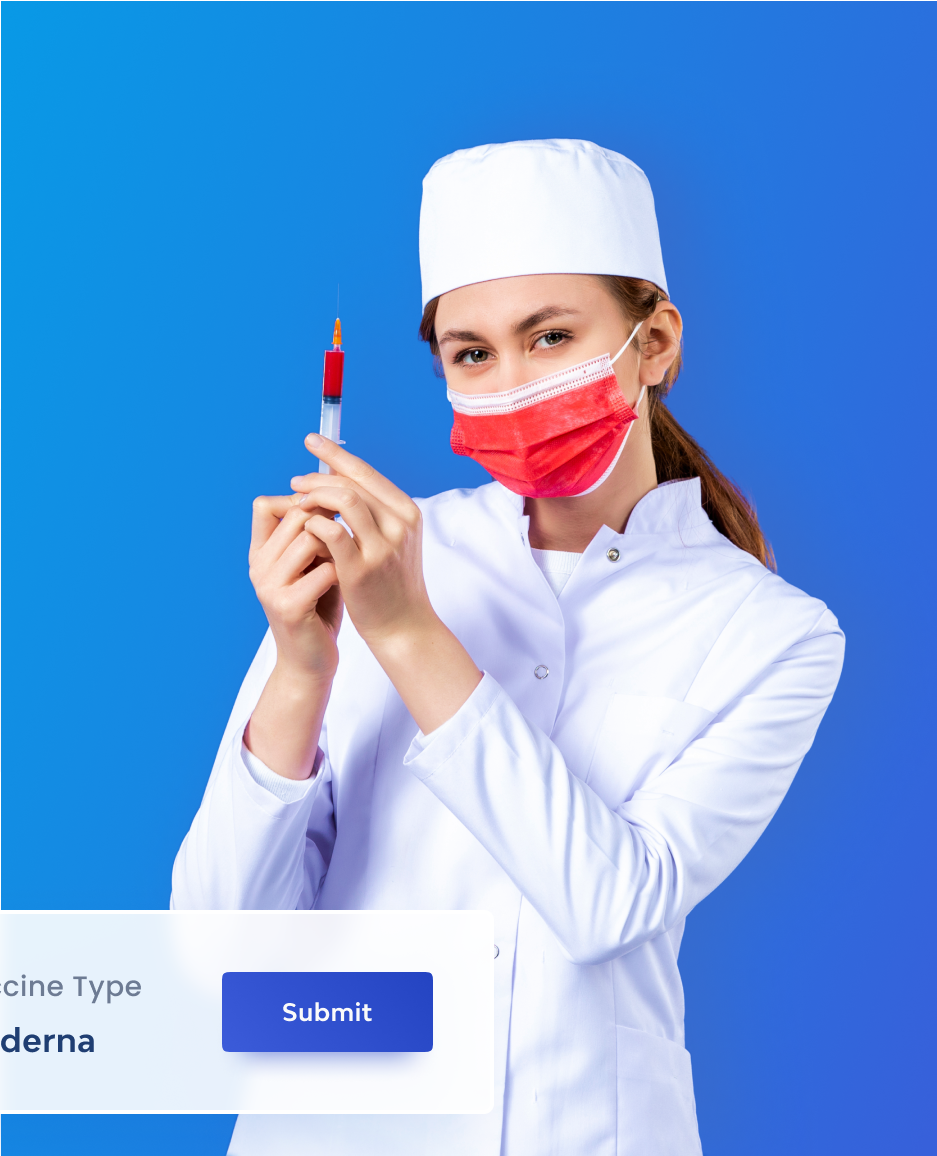
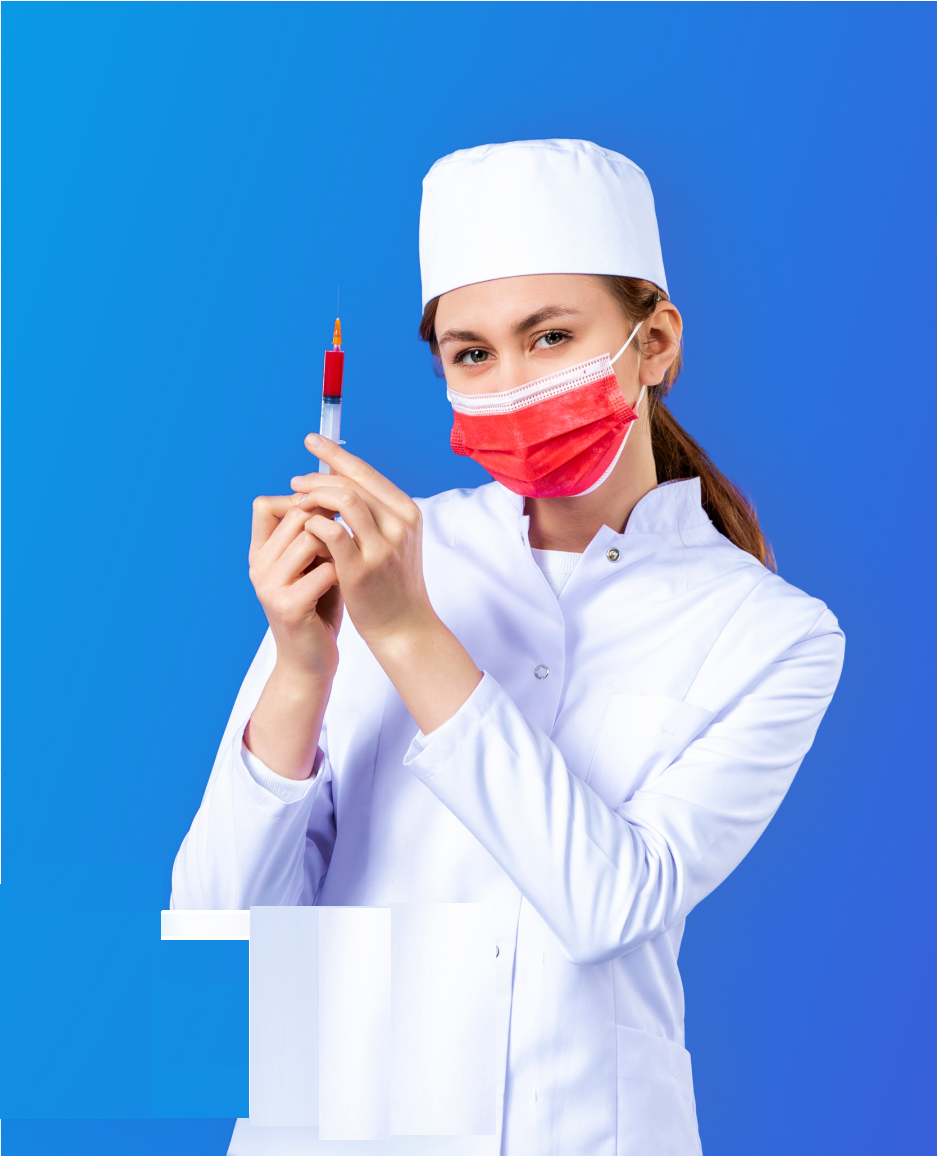
Update: iniciada sección 3 y colocar imagen 2

Changed region(s): [[0.0, 0.7785, 0.4642, 0.9654], [0.3404, 0.9654, 0.4023, 0.9965]]

diff --git a/EstilosVacunacion.css b/EstilosVacunacion.css
@@ -1,5 +1,5 @@
 body{
-    background-color: whitesmoke;
+    background-color: rgba(255, 255, 255, 0.911);
     /*background-image: url("./Vac.png");
     opacity: 0.9;
     background-repeat: no-repeat;
@@ -28,7 +28,7 @@ p{
     color: #101e5a;
     font-weight: bold; 
     font-size: 21px;
-    opacity: 0.7;
+    opacity: 0.5;
 }
 
 .opDatos{
@@ -99,8 +99,7 @@ p{
     position: relative;
     top: 295px;
     left: 135px;
-    width: 450px;
-    
+    width: 450px; 
 }
 
 .imagen1{
@@ -113,4 +112,62 @@ p{
     height: 910px;
     top: 30px;
     background-size: cover;
+}
+
+.lineaProteccion{
+    position: absolute;
+    top: 470px;
+    left: 180px;
+    width: 280px;
+    font-size: 18px;
+    opacity: 0.8;
+}
+
+.lineaSeleccionadas{
+    position: absolute;
+    top: 470px;
+    left: 400px;
+    width: 250px;
+    font-size: 18px;
+    opacity: 0.8;
+}
+
+.lineaAgenda{
+    position: absolute;
+    top: 665px;
+    left: 180px;
+    width: 400px;
+    font-size: 26px;
+    opacity: 0.9;
+}
+
+.imagen2{
+    position: absolute;
+    background-image: url("./Ima2.png");
+    background-repeat: no-repeat;
+    background-position: left;
+    left: 0px;
+    width: 1515px;
+    height: 350px;
+    top: 1050px;
+    background-size: cover;
+}
+
+.preguntaVacunar{
+    font-family: -apple-system, BlinkMacSystemFont, 'Segoe UI', Roboto, Oxygen, Ubuntu, Cantarell, 'Open Sans', 'Helvetica Neue', sans-serif;
+    color: #101e5a;
+    font-weight: bold; 
+    position: absolute;
+    top: 305px;
+    left: 150px;
+    width: 700px;
+    opacity: 1;
+    font-size: 40px;
+}
+
+.beneficios{
+    position: absolute;
+    top: 410px;
+    left: 150px;
+    width: 500px;
 }

diff --git a/PaginaVacunacion.html b/PaginaVacunacion.html
@@ -27,10 +27,17 @@
             <h2 class="subTitulo">Combate el Virus con Vacunas</h2>
             <br>
             <p class="parrafoSec2">Detengamos esta pandemia matando el virus con una vacuna, tú no te dejes contagiar y tu familia</p>
+            <p class="lineaProteccion">Mejor protección</p>
+            <p class="lineaSeleccionadas">Vacunas seleccionadas</p>
+            <p class="lineaAgenda">Agenda tu vacunación</p>
         </div>
         <div class="imagen1"></div>
     </section>
-    
-    <!--<section class="imagen1"></section>-->
+    <section class="imagen2">
+        <div>
+            <h2 class="preguntaVacunar">¿Por qué debo vacunarme?</h2>
+            <p class="beneficios">Para evitar dudas sobre vacunarse contra el COVID-19, identifique los siguientes 4 beneficios de la vacunación contra el COVID-19:</p>
+        </div>
+    </section>
 </body>
 </html>
